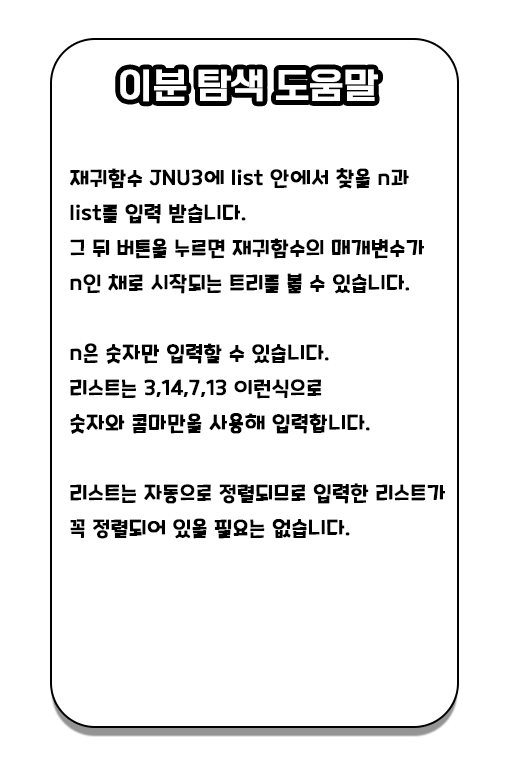
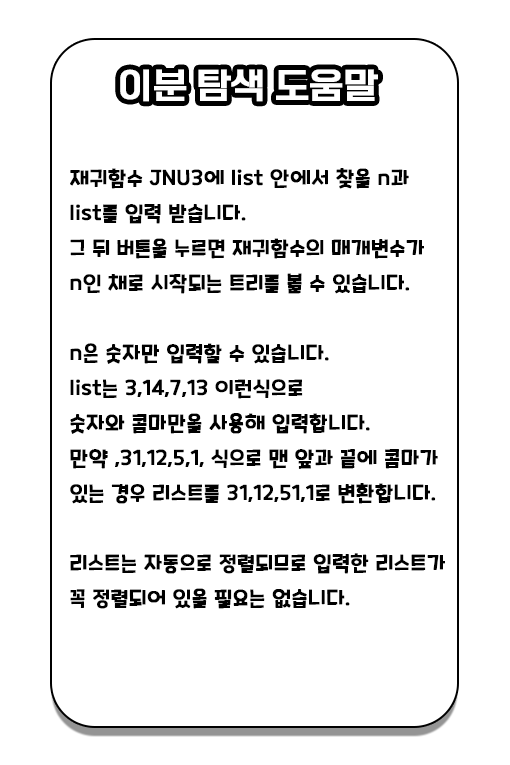
many things add

Changed region(s): [[0.1176, 0.5712, 0.8824, 0.8118], [0.1471, 0.481, 0.6471, 0.5412]]

diff --git a/templates/select.html b/templates/select.html
@@ -89,7 +89,7 @@
     </style>
     <script>
         var move = 0;        
-        var hide = 0;
+        var hide = 1;
         function updatehelp(){
             const image1 = document.getElementById('help_image');
             
@@ -173,6 +173,12 @@
         function htmlmove(){
             var textareaValue = document.querySelector('.input-text').value;
             var textareaValue2 = document.querySelector('.input-text2').value;
+            if (textareaValue === "") {
+                textareaValue = 1;
+            }
+            if (textareaValue2 === "") {
+                textareaValue2 = 1;
+            }
              if (move == 1){
                 window.location.href = '/select/recursion' + move + '?n=' + textareaValue;
             }
@@ -197,7 +203,12 @@
             }else{
             event.returnValue=false;
             }
-         }   
+         } 
+        
+         function formatInput(input) {
+            input.value = input.value.replace(/[^\d,]/g, '');
+            input.value = input.value.replace(/,{2,}/g, ',');
+          }
     </script>
 </head>
 
@@ -232,8 +243,8 @@
                    <h2>
                     <input id="ninput" type="text" placeholder="n" name='n' class="input-text"  onKeyup="this.value=this.value.replace(/[^0-9]/g,'');"maxlength = "2" style="width:150px;height:50px;font-size:30px";></input>
                     <div>
-                        <input type="text" placeholder="list" name='n' class="input-text2"  id='input1' style="width:150px;height:50px;font-size:30px;display:none;";></input>
-                         </div>
+                        <input type="text" placeholder="list" name='n' class="input-text2"  id='input1' oninput="formatInput(this);" style="width:300px;height:50px;font-size:30px;display:none;">
+                    </div>
                     
                     <input type="submit" value="submit" class="submitButton" onclick="htmlmove()" >
                    </h2>
@@ -247,8 +258,8 @@
                         <img src="{{ url_for('static', filename='image/question1.png') }}" width="35%" height="35%" />
                     </button>
                 </div>
-                <div id="help_image" style="display:none">
-                    <img id="helpimage" src=""/>
+                <div id="help_image">
+                    <img id="helpimage" src="{{ url_for('static', filename='image/help0.png') }}"/>
                 </div>
             </div>
     </div>

diff --git a/flaskTest.py b/flaskTest.py
@@ -50,6 +50,12 @@ def recursion3():
     t = n_value.split("=", 1)
     n_value = int([t[0].split("?", 1)][0][0])
     list = t[1].split(",")
+    if (list[0] == ''):
+        del list[0]
+    if(list[-1] == ''):
+        del list[-1]
+    for a in range(len(list)):
+        list[a] = int(list[a])
     print("Received input_value:", n_value)
     print("Received list:", list)
     return render_template('recursion3.html')
